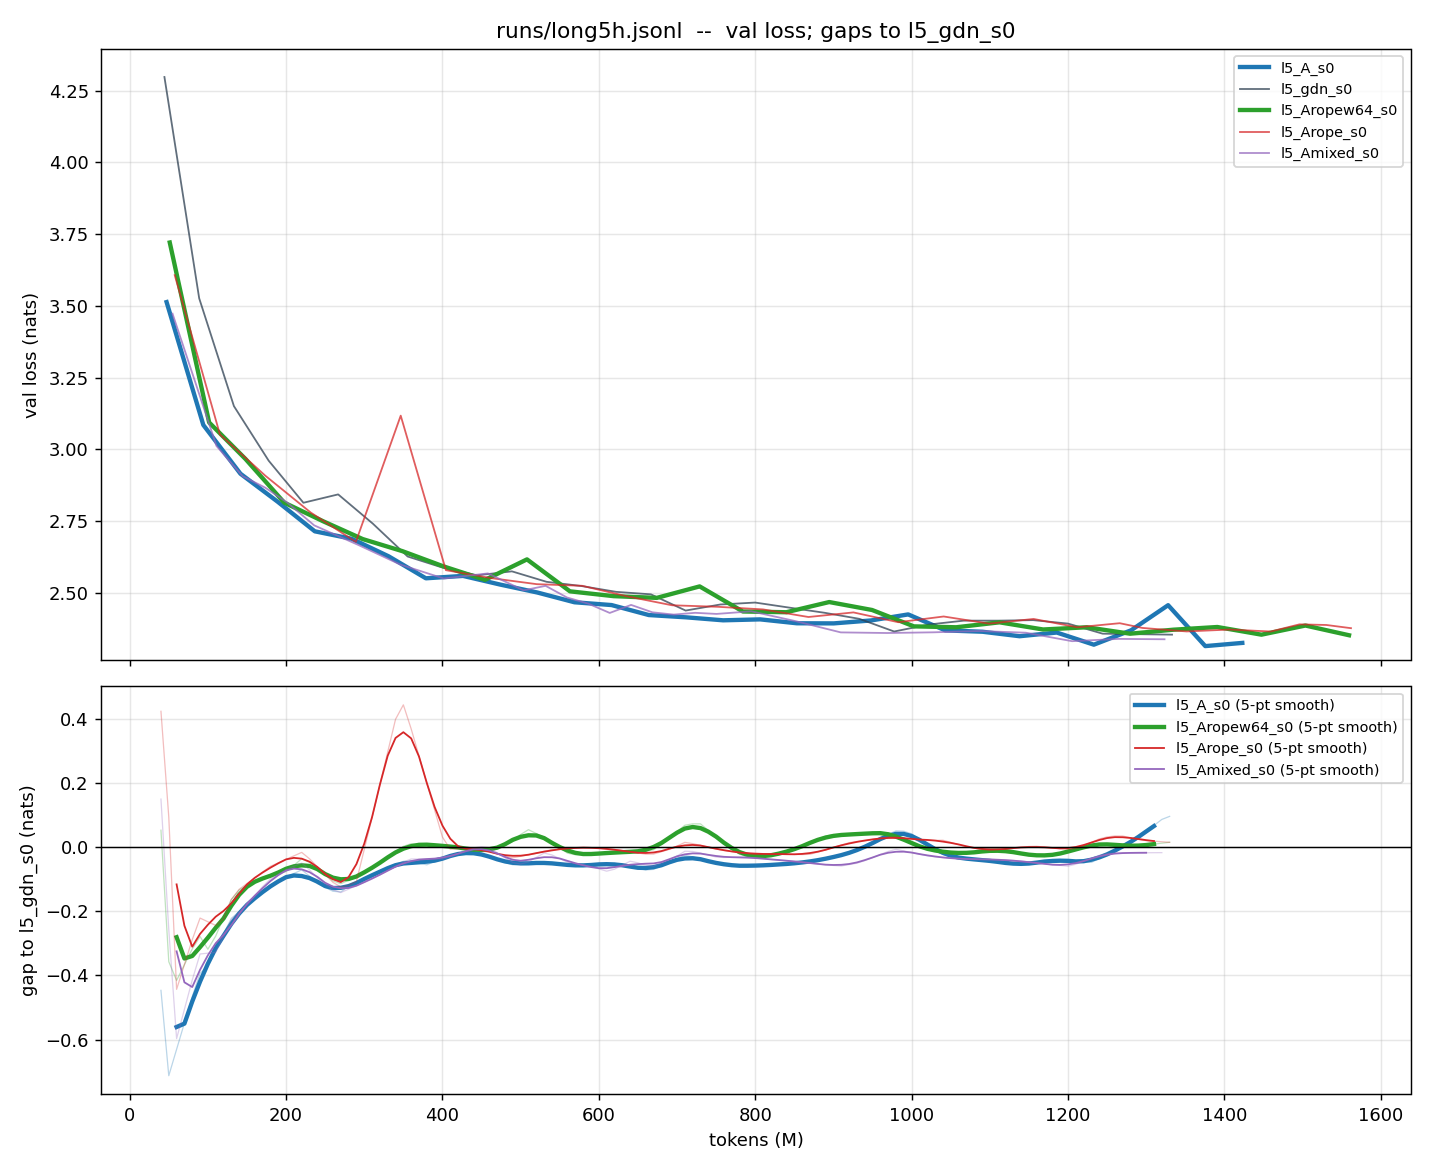
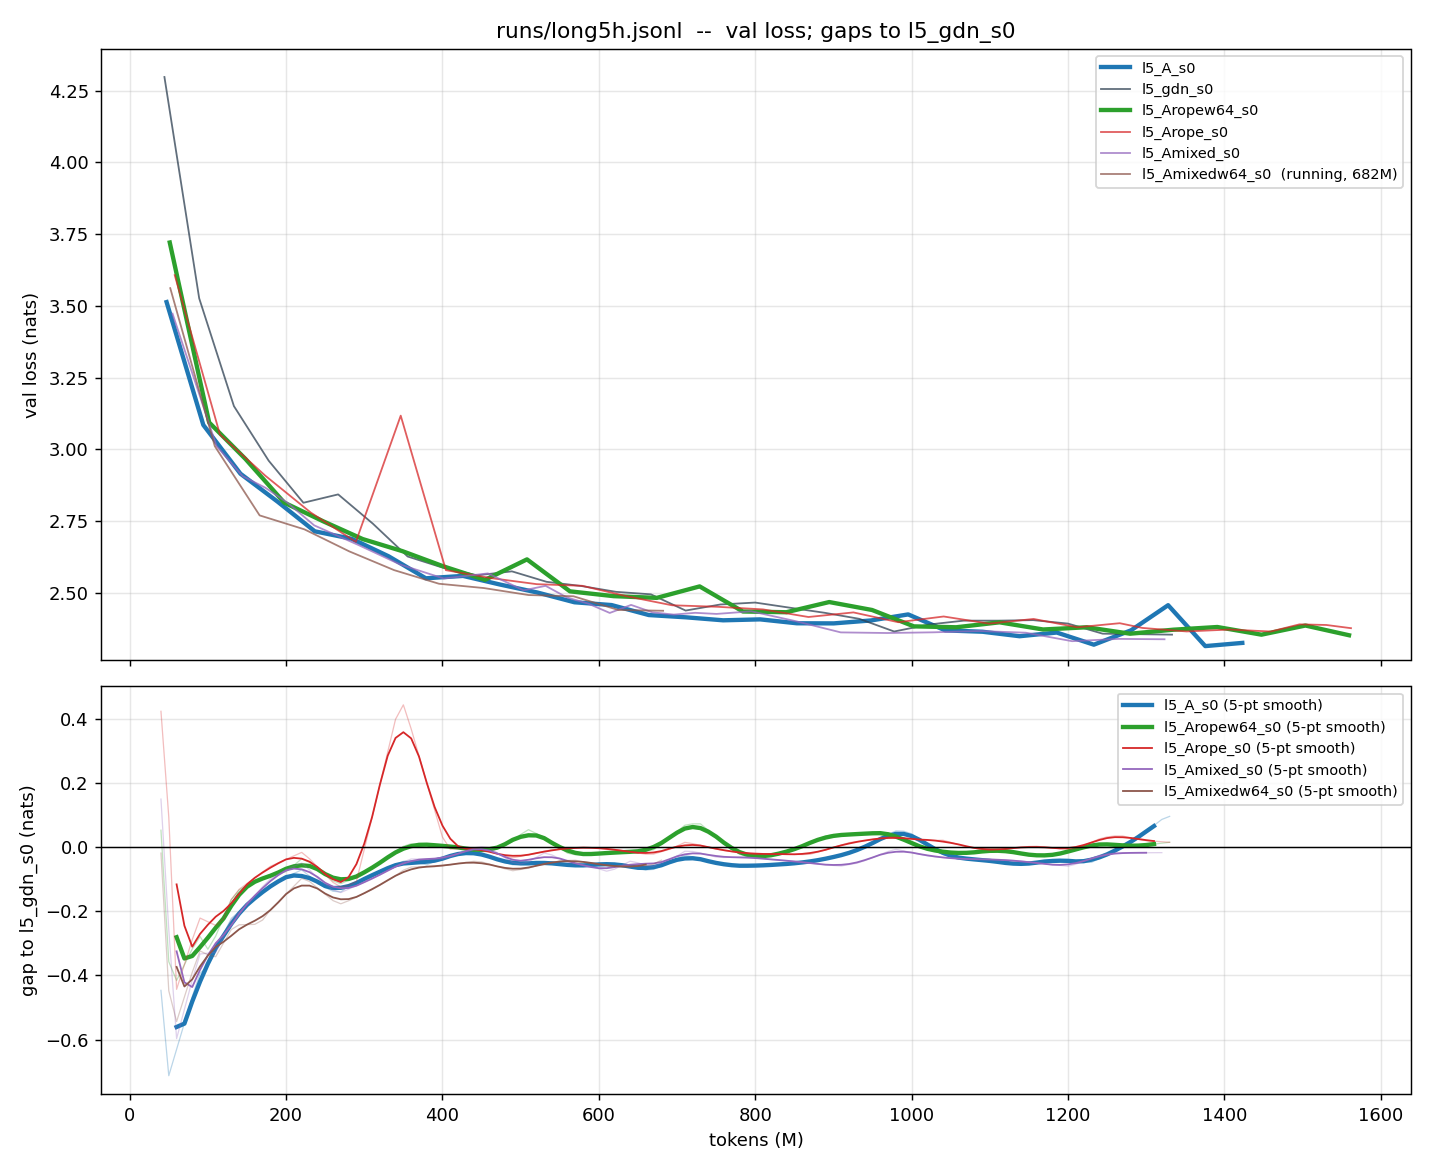
copy 8k: candidate reaches 0.69 exact at L=512

Changed region(s): [[0.7692, 0.5846, 0.9846, 0.7077], [0.7692, 0.0308, 0.9846, 0.1538]]

diff --git a/CATCHUP.md b/CATCHUP.md
@@ -552,6 +552,15 @@ load-bearing for long copy, not noise (layer 0 gives them the largest read weigh
 Candidate layer: **mixed grid + window 64**. Queued: copy at 8000 steps, then its 5 h LM
 run (`l5_Amixedw64_s0`, ff 424).
 
+### The candidate in copy at 8000 steps (2026-09-11, 07:40)
+
+Mixed grid + window 64, M=190, 33k state/layer: **1.00/1.00 · 1.00/0.99 · 1.00/1.00 ·
+1.00/0.98 · 1.00/0.69** (token / exact at L = 32, 64, 128, 256, 512). Sixty-nine percent of
+512-token strings reproduced without a single error by a 33k-float state; the 4000-step
+champion (rope 1e3 + w64) had 0.14. The 4000-step dip was one of several single-eval
+spikes (constant lr 1e-3); the trend between them is monotone. The 5 h LM run of the same
+layer (`l5_Amixedw64_s0`) started 07:39.
+
 ### Speed pass on Laplace Attention (2026-09-10, in progress)
 
 Profile of A's layer under compile (B=8, T=1024, fwd+bwd): long head 65%, short
